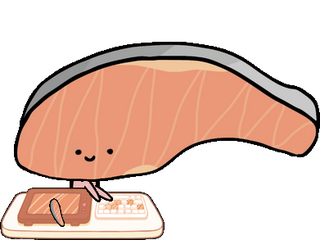
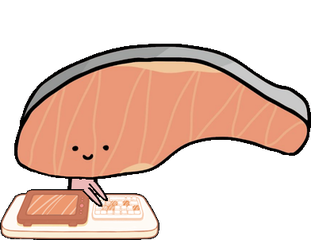
update v1786994623

diff --git a/mascot.py b/mascot.py
@@ -12375,8 +12375,9 @@ class Mascot:
         cx, cy = cursor_pos()
         wx = self.root.winfo_rootx() + self.W // 2
         wy = self.root.winfo_rooty() + self.H // 2
-        pdx = max(-5, min(5, (cx - wx) / 60))
-        pdy = max(-3, min(4, (cy - wy) / 90))
+        em = float(self.cfg.get("eye_move", 1.0))
+        pdx = max(-5 * em, min(5 * em, (cx - wx) / 60 * em))
+        pdy = max(-3 * em, min(4 * em, (cy - wy) / 90 * em))
         # 몸짓 중에는 눈동자를 가운데로 모은다. 고개를 기울이면 미리 합쳐 둔
         # 머리(눈동자가 가운데에 구워져 있다)로 그려지는데, 기울기가 0 근처를
         # 오갈 때마다 두 방식이 번갈아 쓰여 눈동자가 대각선으로 튄다.
@@ -12699,6 +12700,7 @@ class Mascot:
             c.create_image(tx_ + offx, ty_ + offy + bob,
                            image=self._rotated_hop("arm_right_typing", self.pen_ang),
                            anchor="nw")
+            self._pen_draw = None      # 타자 중에는 펜을 손에서 놓는다
             if self._pen_grain and self.pensnd is not None:
                 self.pensnd.tick(now, enabled=False)    # 타이핑 중엔 펜 소리 정지
         else:
